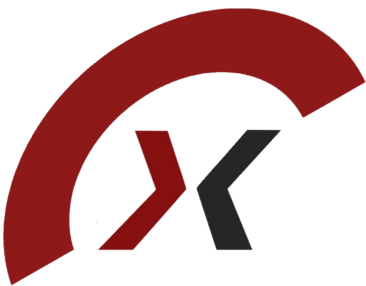
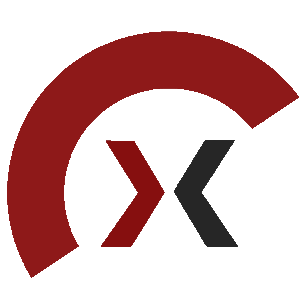
Refactoring

diff --git a/web/static/css/jumbotron.css b/web/static/css/jumbotron.css
@@ -3,10 +3,10 @@
 }
 
 .jumbotron {
-	background: url("/static/img/back50.png") no-repeat right, #26030e; /* Old browsers */
-	background: url("/static/img/back50.png") no-repeat right, -moz-linear-gradient(top,  #000000 0%, #26030e 38%, #26030e 38%, #530400 100%); /* FF3.6-15 */
-	background: url("/static/img/back50.png") no-repeat right, -webkit-linear-gradient(top,  #000000 0%,#26030e 38%,#26030e 38%,#530400 100%); /* Chrome10-25,Safari5.1-6 */
-	background: url("/static/img/back50.png") no-repeat right, linear-gradient(to bottom,  #000000 0%,#26030e 38%,#26030e 38%,#530400 100%); /* W3C, IE10+, FF16+, Chrome26+, Opera12+, Safari7+ */
+	background: url("/static/img/galeyXmipp.png") no-repeat right, #26030e; /* Old browsers */
+	background: url("/static/img/galeyXmipp.png") no-repeat right, -moz-linear-gradient(top,  #000000 0%, #26030e 38%, #26030e 38%, #530400 100%); /* FF3.6-15 */
+	background: url("/static/img/galeyXmipp.png") no-repeat right, -webkit-linear-gradient(top,  #000000 0%,#26030e 38%,#26030e 38%,#530400 100%); /* Chrome10-25,Safari5.1-6 */
+	background: url("/static/img/galeyXmipp.png") no-repeat right, linear-gradient(to bottom,  #000000 0%,#26030e 38%,#26030e 38%,#530400 100%); /* W3C, IE10+, FF16+, Chrome26+, Opera12+, Safari7+ */
 	filter: progid:DXImageTransform.Microsoft.gradient( startColorstr='#000000', endColorstr='#530400',GradientType=0 ); /* IE6-9 */
 	color: #fff;
 	padding: 80px 0 60px 0;
@@ -27,11 +27,13 @@
 	margin-left: 10px;
 }
 
+/*color en main con logos*/
 .mynav {
-	background: #031226; /* Old browsers */
-	background: -moz-linear-gradient(top,  #031226 0%, #194477 100%); /* FF3.6-15 */
-	background: -webkit-linear-gradient(top,  #031226 0%,#194477 100%); /* Chrome10-25,Safari5.1-6 */
-	background: linear-gradient(to bottom,  #031226 0%,#194477 100%); /* W3C, IE10+, FF16+, Chrome26+, Opera12+, Safari7+ */
+	background: #989392; /* Old browsers */
+	/*background: -moz-linear-gradient(top,  #031226 0%, #194477 100%); /* FF3.6-15 */
+	/*background: -webkit-linear-gradient(top,  #031226 0%,#194477 100%); /* Chrome10-25,Safari5.1-6 */
+	/*background: linear-gradient(to bottom,  #031226 0%,#194477 100%); /* W3C, IE10+, FF16+, Chrome26+, Opera12+, Safari7+ */*/
+	/*background: linear-gradient(to bottom,  #FFFFFF 0%,#808080 100%)*/
 	filter: progid:DXImageTransform.Microsoft.gradient( startColorstr='#031226', endColorstr='#194477',GradientType=0 ); /* IE6-9 */
 	padding: 10px 0 10px 0;
 	text-align: center;
@@ -40,7 +42,7 @@
 .headerTitle {
 	margin-top: 10px;
 	text-align: center;
-	color: #fff;
+	color: #500400;
 	font-size: 2.5em;
 	font-weight: bold;
 	display: inline-block;
@@ -54,7 +56,7 @@
 .footerLink a:hover {
 	color: firebrick;
 }
-
+/*back texto principal*/
 @media (max-width: 690px){
 	.backimage {
 		background: #000000; /* Old browsers */
@@ -84,13 +86,14 @@
 		padding: 20px 0 15px 0;
 	}
 }
-
+/*central text red*/
 @media (min-width: 691px) {
 	.backimage {
-		background: url("/static/img/back50.png") no-repeat right, #26030e; /* Old browsers */
-		background: url("/static/img/back50.png") no-repeat right, -moz-linear-gradient(top,  #000000 0%, #26030e 38%, #26030e 38%, #530400 100%); /* FF3.6-15 */
-		background: url("/static/img/back50.png") no-repeat right, -webkit-linear-gradient(top,  #000000 0%,#26030e 38%,#26030e 38%,#530400 100%); /* Chrome10-25,Safari5.1-6 */
-		background: url("/static/img/back50.png") no-repeat right, linear-gradient(to bottom,  #000000 0%,#26030e 38%,#26030e 38%,#530400 100%); /* W3C, IE10+, FF16+, Chrome26+, Opera12+, Safari7+ */
+		background: url("/static/img/galeyXmipp.png") no-repeat right, #6A6868 %80; /* Old browsers */
+		background: url("/static/img/galeyXmipp.png") no-repeat right, -moz-linear-gradient(top,  #840600 0%,  #989392 100%); /* FF3.6-15 */
+		background: url("/static/img/galeyXmipp.png") no-repeat right, -webkit-linear-gradient(top,  #840600 0%, #989392 100%); /* Chrome10-25,Safari5.1-6 */
+		/*background: url("/static/img/galeyXmipp.png") no-repeat right, linear-gradient(to bottom,  #000000 0%,#26030e 38%,#26030e 38%,#530400 100%); /* W3C, IE10+, FF16+, Chrome26+, Opera12+, Safari7+ */ */
+		background-image: url("/static/img/cryo-em-image.jpg")
 		filter: progid:DXImageTransform.Microsoft.gradient( startColorstr='#000000', endColorstr='#530400',GradientType=0 ); /* IE6-9 */
 	}
 	.mainHead h2 {	

diff --git a/web/templates/home/index.html b/web/templates/home/index.html
@@ -72,7 +72,7 @@
     <div class="jumbotron backimage">
       <div class="container mainHead">
         <p>A suite of image processing programs, primarily aimed at single-particle 3D electron microscopy, designed and managed by the Biocomputing Unit located in Madrid, Spain.</p>
-        <p>If you have used Xmipp in your work, please cite our papers as given in the List Of References.
+        <p>If you have used Xmipp in your work, please cite our papers as given in the <a href="https://github.com//xmipp/wiki/List-of-references"> List Of References. </a>
         </p>
 		</p>
       </div>
@@ -82,18 +82,13 @@
       <div class="container">
             <!-- Example row of columns -->
             <div class="row">
-              <div class="col-md-4">
-                <h3><a href="https://github.com/I2PC/xmipp#getting-started" ><span class="glyphicon glyphicon-ok" aria-hidden="true"></span> Getting started</a></h3>
-                <p>Quick introduction to Xmipp. Good starting point to try out the new version. You will know the first steps to create a project and an overview of the whole workflow
-                </p>
-              </div>
 	          <div class="col-md-4">
                 <h3><a href="https://github.com/I2PC/xmipp#installation-requirements"><span class="glyphicon glyphicon-download-alt" aria-hidden="true"></span> How to Install</a></h3>
                 <p>See instructions on how to install Xmipp on your machine, with description of dependencies and a list of tested platforms.
                 </p>
               </div>
               <div class="col-md-4">
-                <h3><a href="https://github.com/I2PC/xmipp/wiki" ><span class="glyphicon glyphicon-book" aria-hidden="true"></span> Wiki support</a></h3>
+                <h3><a href="https://github.com/I2PC/xmipp/wiki" ><span class="glyphicon glyphicon-book" aria-hidden="true"></span> Documentation</a></h3>
                 <p>Complete references we have created to help you so far.
                 </p>
               </div>

diff --git a/web/static/css/general_style.css b/web/static/css/general_style.css
@@ -114,13 +114,7 @@ header #backToProject{
 header #headerLine{
 	width:100%;
 	height:10px;
-	background: #d2a7a7; /* Old browsers */
-	background: -moz-linear-gradient(left, #d2a7a7 0%, #820808 50%, #d2a7a7 100%); /* FF3.6+ */
-	background: -webkit-gradient(linear, left top, right top, color-stop(0%,#d2a7a7), color-stop(50%,#820808), color-stop(100%,#d2a7a7)); /* Chrome,Safari4+ */
-	background: -webkit-linear-gradient(left, #d2a7a7 0%,#820808 50%,#d2a7a7 100%); /* Chrome10+,Safari5.1+ */
-	background: -o-linear-gradient(left, #d2a7a7 0%,#820808 50%,#d2a7a7 100%); /* Opera 11.10+ */
-	background: -ms-linear-gradient(left, #d2a7a7 0%,#820808 50%,#d2a7a7 100%); /* IE10+ */
-	background: linear-gradient(to right, #d2a7a7 0%,#820808 50%,#d2a7a7 100%); /* W3C */
+	background-image: url("/home/agarcia/scipion3/software/em/xmipp-portal/web/static/img/cryo-em-image.jpg"); /* Old browsers */
 	filter: progid:DXImageTransform.Microsoft.gradient( startColorstr='#d2a7a7', endColorstr='#d2a7a7',GradientType=1 ); /* IE6-9 */
 }
 header .logo{

diff --git a/web/templates/_navigation.html b/web/templates/_navigation.html
@@ -3,15 +3,15 @@
  	<nav class="navbar mynav">
 	  <div class="container">
 		  <a href="#">
-			  <img class="headerImage"  src="{% static "img/xmipp_logo_normal.png" %}">
+			  <img class="headerImage"  src="{% static "img/xmipp_noBackground.png" %}">
 		  </a>
 		  <div class="headerTitle">
 		  		Xmipp
 		  </div>
 		  <div class="logoLine">
 		  		<a href="http://www.cnb.csic.es/">
-				  <img class="logosLine" src="{% static "img/cnb-logo.jpg" %}" /></a>
-				<a href="http://i2pc.cnb.csic.es/LoadHome.htm">	
+				  <img class="logosLine" src="{% static "img/logo_cnb_without_title.png" %}" /></a>
+				<a href="http://i2pc.es/">
 				  <img class="logosLine" src="{% static "img/i2pc_color.png" %}" /></a>
 
 		  </div>
